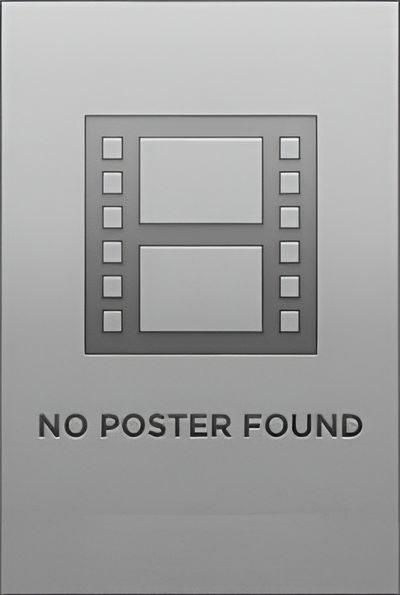
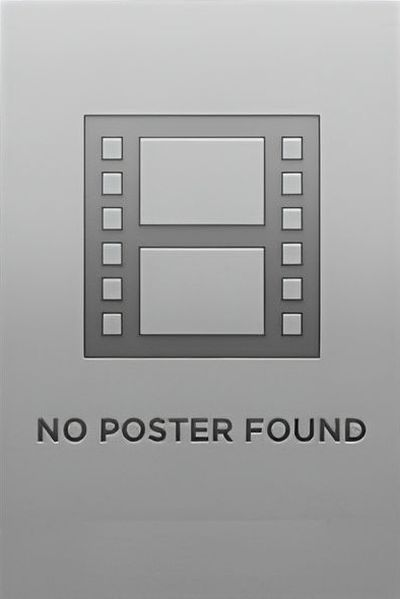
pagination

diff --git a/src/js/render-cards.js b/src/js/render-cards.js
@@ -1,5 +1,5 @@
 import FilmRestAPI from './restAPI/restAPI';
-import defaultPoster from '../images/default-poster1.jpg';
+import defaultPoster from '../images/default-poster.jpg';
 import { pagination } from './pagination-home/pagination-home';
 
 // const cardSetEl = document.querySelector('.card-set');
@@ -18,12 +18,12 @@ pagination.setTotalItems(Math.ceil(data.total_results / 20));
 pagination.movePageTo(1);
  pagination.on('beforeMove', async ({ page }) => {
     try {
-        console.log('Denys');
+        // console.log('Denys');
       fetchedData.page = page;
     const data = await fetchedData.fetchMovies();
     renderMovies(data);
   } catch (err) {
-    console.log;
+    console.error;
   }
 });
 // PAGINATION
@@ -42,8 +42,8 @@ export function renderMovies(movies) {
       const {
         poster_path: posterPath,
         title,
-        genre_ids: genreIds,
-        release_date: releseDate,
+        genre_ids: genreIds = [],
+        release_date: releseDate = '',
       } = movie;
       const movieGenres = genreIds.map(genre => genresList[genre]);
       return `<li class="card-set__item movie-card"><a href="" class="movie-card__link"><div class="movie-card__holder"><img src=${
@@ -53,7 +53,7 @@ export function renderMovies(movies) {
               movieGenres.length < 3
                 ? movieGenres.join(', ')
                 : movieGenres.slice(0, 2).join(', ') + ', Other'
-            } |
+            } ${movieGenres.length && releseDate ? '|' : ''}
                 <span class="movie-card__date">${releseDate.slice(0, 4)}</span>
             </p></a></li>`;
     })

diff --git a/src/js/search/search.js b/src/js/search/search.js
@@ -1,8 +1,10 @@
 import FilmRestAPI from '../restAPI/restAPI';
+import Pagination from 'tui-pagination';
 import { refs } from '../refs/refs';
 import Notiflix from 'notiflix';
 import { renderMovies } from '../render-cards';
-import { pagination } from '../pagination-home/pagination-home';
+import { options } from '../pagination-home/pagination-home';
+
 const exemplarFilms = new FilmRestAPI();
 
 refs.searchForm.addEventListener('submit', onSearchFormSubmit);
@@ -31,24 +33,24 @@ async function onSearchFormSubmit(e) {
     
     renderMovies(data);
 
-// PAGINATION
+const pagination = new Pagination('pagination', options)
+    // PAGINATION
+    pagination.setTotalItems(Math.ceil(data.total_results / 20));
+    pagination.movePageTo(1);
+    
 pagination.on('beforeMove', async ({ page }) => {
-  console.log(page);
+  // console.log(page);
   try {
     exemplarFilms.page = page;
     const data = await exemplarFilms.searchMovies();
     renderMovies(data);
   } catch (err) {
-    console.log;
+    console.error;
   }
 });
-    // PAGINATION
-    pagination.setTotalItems(Math.ceil(data.total_results / 20));
-    pagination.movePageTo(1);
-    // PAGINATION
-
+// PAGINATION
   } catch (err) {
-    console.log;
+    console.error;
   }
 
 }

diff --git a/src/js/pagination-home/pagination-home.js b/src/js/pagination-home/pagination-home.js
@@ -2,7 +2,7 @@ import Pagination from 'tui-pagination';
 import 'tui-pagination/dist/tui-pagination.css';
 
 const container = document.getElementById('pagination');
-const options = {
+export const options = {
   // totalItems: 10,
   itemsPerPage: 1,
   visiblePages: 5,
@@ -29,3 +29,4 @@ const options = {
   },
 };
 export const pagination = new Pagination('pagination', options);
+// export const vagination = new Pagination('pagination', options);
